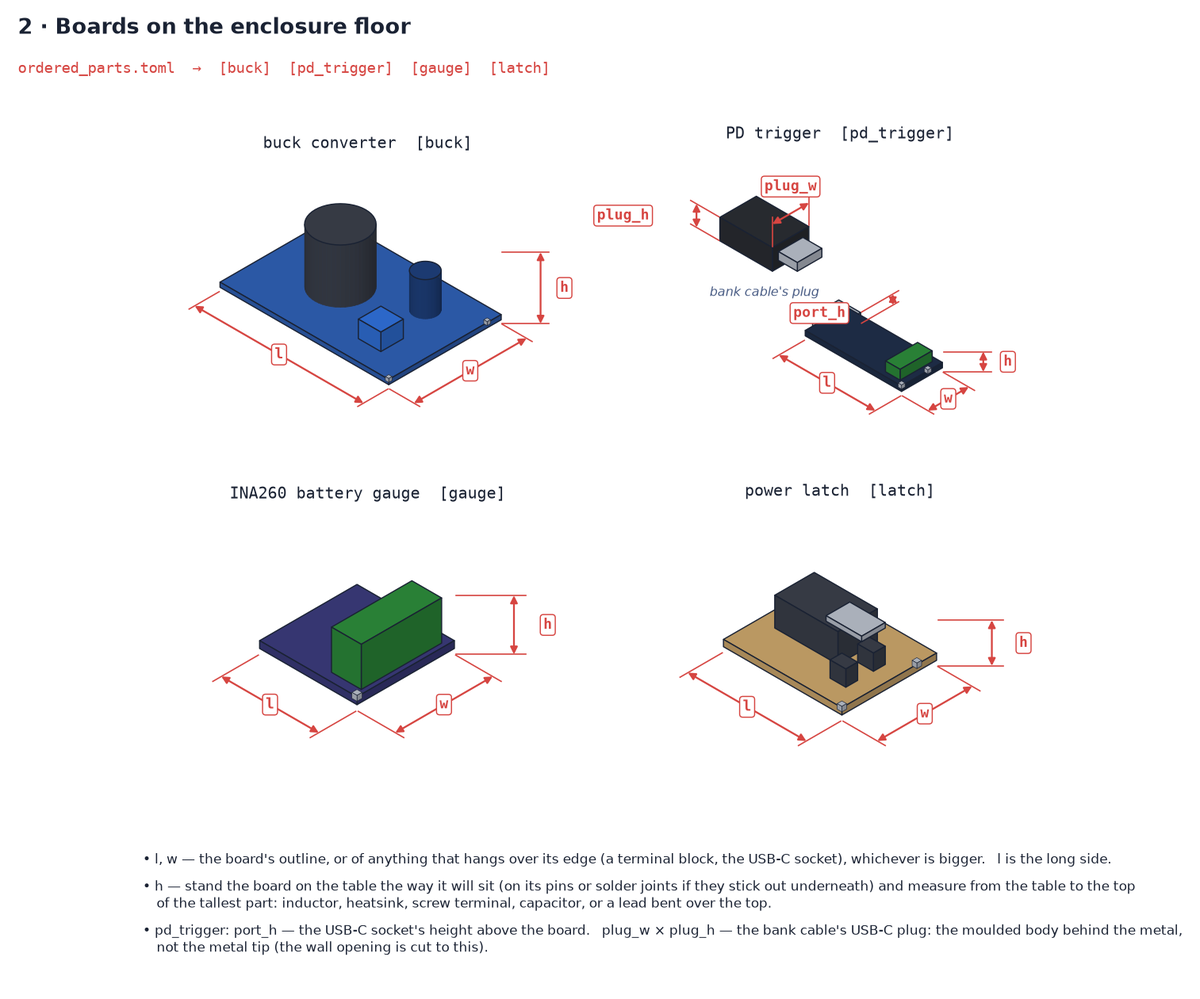
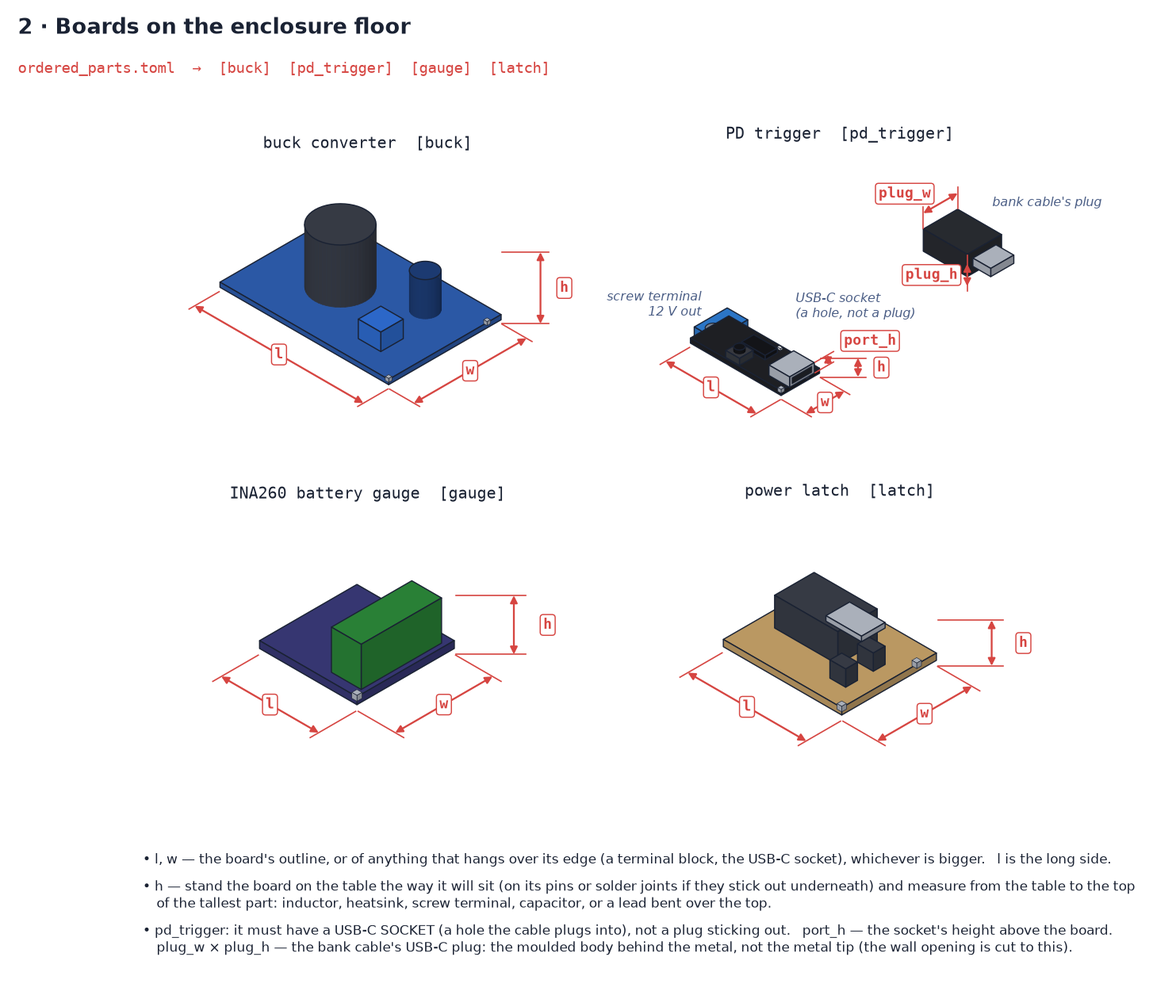
PD trigger: socket board, button setup and S1 lock; clearer measuring diagram
boards.png draws the trigger like the common black button board, with its
USB-C socket, screw terminal and the bank cable's plug. BOM item 10 asks
for a socket (female) board; the wiring, assembly, verification and
catalogue notes cover setting 12 V, the saved setting and the S1 lock.

diff --git a/sport_cam/docs/setup/assembly/catalog.js b/sport_cam/docs/setup/assembly/catalog.js
@@ -221,7 +221,7 @@
 
     // ---- bought parts
     { id: "pd", name: "USB-C PD trigger board", kind: "Electronics", match: ["USB-C\\s+PD\\s+trigger\\s+board"], img: model(["trigger"], board("USB-C PD trigger", C.blue)),
-      desc: "<p>A small board with a USB-C socket that talks USB Power Delivery to the power bank and asks it for a fixed voltage — <b>12 V</b> here — instead of the default 5 V. You select the voltage with a solder jumper or resistor printed on the board.</p><p>Check it with a meter on a real bank before wiring anything else.</p>" },
+      desc: "<p>A small board with a USB-C socket that talks USB Power Delivery to the power bank and asks it for a fixed voltage — <b>12 V</b> here — instead of the default 5 V. The usual kind has a button that steps 5 → 9 → 12 → 15 → 20 V, with an LED for each; it saves the setting, so it comes back at 12 V after every power cycle and bank swap. Short its <b>S1</b> pad with solder to lock the button once it is at 12 V; leave the F1/F2 test pads open. Others are fixed at 12 V, or set with a solder jumper.</p><p>It must have a USB-C <b>socket</b>, not a plug: the bank's cable plugs into it through the wall. Check it with a meter on a real bank before wiring anything else.</p>" },
     { id: "rocker", name: "Rocker switch", kind: "Electronics", match: ["Rocker\\s+switch"], img: model(["switch"], board("rocker switch", C.black, 80, 100)),
       desc: "<p>The camera's on/off switch. Panel-mount: it clips into a rectangular hole in the enclosure wall. It doesn't carry the power. It tells the power latch to turn on, and the Pi when to shut down, so switching off saves any recording before the power goes.</p>" },
     { id: "latch", name: "Power latch", kind: "Electronics", match: ["Power\\s+latch"], img: model(["latch"], board("power latch")),

diff --git a/sport_cam/docs/with_uwb/setup/assembly/index.html b/sport_cam/docs/with_uwb/setup/assembly/index.html
@@ -170,7 +170,7 @@ const STEPS = [
     steps: [
       "<b>Wiring:</b> connections P1–P6, S1–S2 and R1 in the <a href='../12-wiring.md' target='_blank'>wiring guide</a>, steps 1–3. Build the power latch on its scrap of perfboard first, from the <a href='../12-wiring.md#power-latch' target='_blank'>latch circuit</a>.",
       "<b>Bench-set the buck to 5.1 V under a 4 A dummy load before it goes anywhere near the Pi.</b> Open-circuit voltage tells you nothing; a unit that reads 5.1 V unloaded and 4.8 V loaded will brown the Pi out under load.",
-      "Set the PD trigger to <b>12 V</b> (solder jumper or resistor, per its silkscreen) and confirm with a meter on a real bank before wiring anything else.",
+      "Set the PD trigger to <b>12 V</b> on a real bank: press its button until the 12 V LED lights (5 → 9 → 12 → 15 → 20 V, one step per press; it remembers the setting through power cycles and bank swaps), then short its <b>S1</b> key-lock pad with solder so a stray press can't take it to 15 or 20 V. Leave the F1/F2 pads open. Confirm 12 V with a meter at its screw terminal, unplug and replug the bank, and confirm it again, before wiring anything else.",
       `<b>PD trigger:</b> foam-tape it to the floor at the ${where(LY.usbc.ang)} of the enclosure, its USB-C socket hard against the inside of the rectangular inlet low in the wall. The bank's cable plugs in from outside.`,
       "<b>Switch and jack:</b> the rocker snaps into its cut-out — the wall is thinned round it so the clips grip — and the barrel jack (the 5 V service tap) goes through the round hole and takes its nut inside.",
       "<b>Latch, gauge and buck:</b> foam-tape them to the floor where the model shows them, clear of the posts and the tripod boss. Everything on the floor stays below the LED window.",

diff --git a/sport_cam/docs/without_uwb/setup/assembly/index.html b/sport_cam/docs/without_uwb/setup/assembly/index.html
@@ -158,7 +158,7 @@ const STEPS = [
     steps: [
       "<b>Wiring:</b> connections P1–P6, S1–S2 and R1 in the <a href='../12-wiring.md' target='_blank'>wiring guide</a>, steps 1–3. Build the power latch on its scrap of perfboard first, from the <a href='../12-wiring.md#power-latch' target='_blank'>latch circuit</a>.",
       "<b>Bench-set the buck to 5.1 V under a 4 A dummy load before it goes anywhere near the Pi.</b> Open-circuit voltage tells you nothing; a unit that reads 5.1 V unloaded and 4.8 V loaded will brown the Pi out under load.",
-      "Set the PD trigger to <b>12 V</b> (solder jumper or resistor, per its silkscreen) and confirm with a meter on a real bank before wiring anything else.",
+      "Set the PD trigger to <b>12 V</b> on a real bank: press its button until the 12 V LED lights (5 → 9 → 12 → 15 → 20 V, one step per press; it remembers the setting through power cycles and bank swaps), then short its <b>S1</b> key-lock pad with solder so a stray press can't take it to 15 or 20 V. Leave the F1/F2 pads open. Confirm 12 V with a meter at its screw terminal, unplug and replug the bank, and confirm it again, before wiring anything else.",
       `<b>PD trigger:</b> foam-tape it to the floor at the ${where(LY.usbc.ang)} of the enclosure, its USB-C socket hard against the inside of the rectangular inlet low in the wall. The bank's cable plugs in from outside.`,
       "<b>Switch and jack:</b> the rocker snaps into its cut-out — the wall is thinned round it so the clips grip — and the barrel jack (the 5 V service tap) goes through the round hole and takes its nut inside.",
       "<b>Latch, gauge and buck:</b> foam-tape them to the floor where the model shows them, clear of the posts and the tripod boss. Everything on the floor stays below the LED window.",

diff --git a/sport_cam/cad/render_measure_diagrams.py b/sport_cam/cad/render_measure_diagrams.py
@@ -435,8 +435,9 @@ def boards():
          "h — stand the board on the table the way it will sit (on its pins or solder joints if they stick out "
          "underneath) and measure from the table to the top of the tallest part: inductor, heatsink, screw terminal, "
          "capacitor, or a lead bent over the top.",
-         "pd_trigger: port_h — the USB-C socket's height above the board.   plug_w × plug_h — the bank cable's "
-         "USB-C plug: the moulded body behind the metal, not the metal tip (the wall opening is cut to this)."],
+         "pd_trigger: it must have a USB-C SOCKET (a hole the cable plugs into), not a plug sticking out.   "
+         "port_h — the socket's height above the board.   plug_w × plug_h — the bank cable's USB-C plug: the "
+         "moulded body behind the metal, not the metal tip (the wall opening is cut to this)."],
         panels=4, size=(10.0, 7.6), rows=2)
     for ax, t in zip(axes, ("buck converter  [buck]", "PD trigger  [pd_trigger]",
                             "INA260 battery gauge  [gauge]", "power latch  [latch]")):
@@ -453,26 +454,38 @@ def boards():
     S.draw()
     S.fit(pad=16)
 
-    # PD trigger
+    # PD trigger — laid out like the common black ones: USB-C socket at one end,
+    # a blue screw terminal (12 V out) at the other, chip, button and LEDs between
     t = P["pd_trigger"]
+    l, w, top = t["l"], t["w"], 2.8
     S = Scene(axes[1])
-    board_box(S, t["l"], t["w"], color="#1f2f4a")
-    S.box(0, t["w"] / 2 - 4.5, 2.8, 7.5, 9, t["port_h"], METAL, bias=3)             # socket at one end
-    S.box(t["l"] - 7, 1.5, 2.8, 5, t["w"] - 3, t["h"] - 2.8, "#2c8a3a", bias=3)     # output terminal
-    lwh(S, t["l"], t["w"], t["h"])
-    S.dim((7.5, t["w"] / 2 - 4.5, 2.8), (7.5, t["w"] / 2 - 4.5, 2.8 + t["port_h"]), (0, -t["w"] / 2 - 4, 0),
-          "port_h", text_off=(-14, -4), ha="right")
-    # plug, floating off the socket end
-    px = -30
+    board_box(S, l, w, color="#202226")
+    sw, sl = 9.0, 7.5                                                               # USB-C socket
+    S.box(l - sl + 0.6, w / 2 - sw / 2, top, sl, sw, t["port_h"], METAL, bias=3)
+    S.poly([(l + 0.61, w / 2 - sw / 2 + 0.9, top + 0.7), (l + 0.61, w / 2 + sw / 2 - 0.9, top + 0.7),
+            (l + 0.61, w / 2 + sw / 2 - 0.9, top + t["port_h"] - 0.7), (l + 0.61, w / 2 - sw / 2 + 0.9, top + t["port_h"] - 0.7)],
+           "#1b1d22", bias=4, lw=0.4)                                               # its mouth
+    S.box(0.4, 1.0, top, 7.5, w - 2.0, t["h"] - top, "#2f7fd6", bias=3)            # screw terminal
+    for y in (w * 0.3, w * 0.7):
+        S.disc((4.15, y, t["h"]), 2.1, "#7a828f", bias=4)
+    S.box(l * 0.36, w * 0.2, top, l * 0.26, w * 0.32, 1.4, "#15161a", bias=2)      # chip
+    S.box(l * 0.38, w * 0.62, top, 5, 5, 2.2, "#3a3d44", bias=2)                    # button
+    S.cyl((l * 0.38 + 2.5, w * 0.62 + 2.5, top + 2.2), 1.5, 1.2, "#15161a", bias=3)
+    for k in range(5):                                                              # voltage LEDs
+        S.box(l * 0.30 + k * l * 0.07, 0.8, top, 1.2, 0.8, 0.6, "#f2f2f2", lw=0.3, bias=2)
+    lwh(S, l, w, t["h"])
+    S.dim((l + 0.6, w / 2 - sw / 2, top), (l + 0.6, w / 2 - sw / 2, top + t["port_h"]), (0, -5, 0),
+          "port_h", text_off=(5, 6), ha="left")
+    S.text((l + 0.6, w / 2, top + t["port_h"]), "USB-C socket\n(a hole, not a plug)", off=(-2, 20), ha="left")
+    S.text((0.4, w / 2, t["h"]), "screw terminal\n12 V out", off=(-3, 4), ha="right")
+    # the bank cable's plug, off to one side, pointing at the socket's end
     pw, ph = t["plug_w"], t["plug_h"]
-    pz = 14
-    S.box(px, t["w"] / 2 - pw / 2, pz, 18, pw, ph, "#2a2d33", bias=0)
-    S.box(px + 18, t["w"] / 2 - 4.2, pz + ph / 2 - 1.3, 6.5, 8.4, 2.6, METAL, bias=1)
-    S.dim((px + 18, t["w"] / 2 + pw / 2, pz + ph), (px + 18, t["w"] / 2 - pw / 2, pz + ph), (0, 0, 7), "plug_w",
-          text_off=(0, 8), ext=True)
-    S.dim((px, t["w"] / 2 + pw / 2, pz), (px, t["w"] / 2 + pw / 2, pz + ph), (-8, 0, 0), "plug_h",
-          text_off=(-14, 0), ha="right")
-    S.text((px + 9, t["w"] / 2, pz), "bank cable's plug", off=(0, -14))
+    px, py, pz = l + 4, -40, top + 22
+    S.box(px + 16, py - 4.2, pz + ph / 2 - 1.3, 6.5, 8.4, 2.6, METAL, bias=1)              # metal tip
+    S.box(px, py - pw / 2, pz, 16, pw, ph, "#2a2d33", bias=2)                              # moulded body
+    S.dim((px, py + pw / 2, pz + ph), (px, py - pw / 2, pz + ph), (0, 0, 5), "plug_w", text_off=(-3, 3), ha="right")
+    S.dim((px + 16, py + pw / 2, pz), (px + 16, py + pw / 2, pz + ph), (3, 3, 0), "plug_h", text_off=(-3, 0), ha="right")
+    S.text((px + 8, py - pw / 2, pz + ph), "bank cable's plug", off=(4, 6), ha="left")
     S.draw()
     S.fit(pad=16)
 

diff --git a/sport_cam/docs/with_uwb/setup/10-bill-of-materials.md b/sport_cam/docs/with_uwb/setup/10-bill-of-materials.md
@@ -53,7 +53,7 @@ ordered. Printed-parts table: tick **Acquired** ☐ when printed.
 | #   | Status | Part                                                   | Qty | ≈ CAD | Source                                                                                                                                                           | Notes                                                                                                                                                                                                                                                                                                                                                                                        |
 | --- | ------ | ------------------------------------------------------ | --- | ----- | ---------------------------------------------------------------------------------------------------------------------------------------------------------------- | -------------------------------------------------------------------------------------------------------------------------------------------------------------------------------------------------------------------------------------------------------------------------------------------------------------------------------------------------------------------------------------------- |
 | 9   | A      | **USB-C PD power bank, 25 000 mAh (92 Wh), 65 W+**     | 1   | $80   | [Amazon.ca](https://www.amazon.ca/s?k=25000mah+power+bank+65w+usb+c+pd)                                                                                          | gives **6.2 h** tracking + recording on a Pi 4, after the bank's own conversion loss ([04](../../design/04-electronics.md#runtime)). A 20 000 mAh (74 Wh) bank makes 5.0 h, saves ≈ C$25 and 200 g, and is the better pick unless you want a full day between charges. Whichever you buy, set `BATTERY_WH` to match. Stay under 100 Wh to keep it flyable                                                 |
-| 10  | O      | USB-C PD trigger board, 12 V                           | 1   | $10   | [Amazon.ca](https://www.amazon.ca/s?k=usb+c+pd+trigger+board+12v)                                                                                                | negotiates 12 V out of the bank. Fixed-12 V or adjustable both fine; most banks cap their 5 V profile at 3 A, and the 5 V rail here also feeds the servos, the three anchors and the ring                                                                                                                                                                                                         |
+| 10  | O      | USB-C PD trigger board, 12 V                           | 1   | $10   | [Amazon.ca](https://www.amazon.ca/s?k=usb+c+pd+trigger+board+12v+female)                                                                                                | negotiates 12 V out of the bank. It must have a USB-C **socket** (female) for the bank cable to plug into — not a USB-C plug sticking out of its end. The common button type (5/9/12/15/20 V, "Type-C Female to 2pin Terminal") is a good choice: it saves its setting through power cycles, so it comes back at 12 V after every bank swap, and its S1 pad locks the button ([wiring, step 2](12-wiring.md)). Fixed-12 V boards are fine too. 3 A cables are enough: the camera draws ≈ 36 W at most; most banks cap their 5 V profile at 3 A, and the 5 V rail here also feeds the servos, the three anchors and the ring                                                                                                                                                                                                         |
 | 11  | O      | 12 V → 5 V 8 A buck (≥ 40 W), **adjustable**           | 1   | $16   | [Amazon.ca](https://www.amazon.ca/s?k=12v+to+5v+8a+adjustable+buck+converter)                                                                                    | the single 5 V rail. Buy an adjustable unit, not a fixed-5 V one: it must be **trimmed to 5.1 V under a 4 A load before the Pi is ever connected**. Open-circuit voltage tells you nothing — a module that reads 5.1 V unloaded and sags to 4.8 V will brown out a Pi. This is the first bench job in the build                                                                              |
 | 12  | A      | **Current/voltage sensor — INA260 breakout preferred** | 1   | $22   | [Digi-Key.ca](https://www.digikey.ca/en/products/result?keywords=adafruit%204226%20ina260) · [Amazon.ca](https://www.amazon.ca/s?k=ina226+current+sensor+module) | the battery gauge, on the 12 V side, I2C 0x40. The **INA260** (Adafruit 4226) has the shunt on the die: nothing to calibrate, no `INA226_SHUNT_OHMS` to get wrong, 36 V and 15 A headroom. A bare **INA226** module works too if you can find one — set `POWER_MONITOR = "ina226"` and the shunt value. **Hard to source in Canada — see [below](#parts-that-are-hard-to-source-in-canada)** |
 | 13  | O      | Panel-mount rocker switch, 10 A                        | 1   | $8    | [Amazon.ca](https://www.amazon.ca/s?k=panel+mount+rocker+switch+12v) | the on/off switch, in the enclosure wall. It signals the power latch (13a) rather than carrying the power, so switching off is a clean shutdown: the recording is saved and the head parked before the power goes. Any SPST rocker that snaps into a 19 × 13 mm cut-out; a lit one is fine |

diff --git a/sport_cam/docs/without_uwb/setup/10-bill-of-materials.md b/sport_cam/docs/without_uwb/setup/10-bill-of-materials.md
@@ -53,7 +53,7 @@ ordered. Printed-parts table: tick **Acquired** ☐ when printed.
 | #   | Status | Part                                                   | Qty | ≈ CAD | Source                                                                                                                                                           | Notes                                                                                                                                                                                                                                                                                                                                                                                        |
 | --- | ------ | ------------------------------------------------------ | --- | ----- | ---------------------------------------------------------------------------------------------------------------------------------------------------------------- | -------------------------------------------------------------------------------------------------------------------------------------------------------------------------------------------------------------------------------------------------------------------------------------------------------------------------------------------------------------------------------------------- |
 | 9   | A      | **USB-C PD power bank, 25 000 mAh (92 Wh), 65 W+**     | 1   | $80   | [Amazon.ca](https://www.amazon.ca/s?k=25000mah+power+bank+65w+usb+c+pd)                                                                                          | gives **6.2 h** tracking + recording on a Pi 4, after the bank's own conversion loss ([04](../../design/04-electronics.md#runtime)). A 20 000 mAh (74 Wh) bank makes 5.0 h, saves ≈ C$25 and 200 g, and is the better pick unless you want a full day between charges. Whichever you buy, set `BATTERY_WH` to match. Stay under 100 Wh to keep it flyable                                                 |
-| 10  | A      | USB-C PD trigger board, 12 V                           | 1   | $10   | [Amazon.ca](https://www.amazon.ca/s?k=usb+c+pd+trigger+board+12v)                                                                                                | negotiates 12 V out of the bank. Fixed-12 V or adjustable both fine; most banks cap their 5 V profile at 3 A, and the 5 V rail here also feeds the servos and the ring                                                                                                                                                                                                         |
+| 10  | A      | USB-C PD trigger board, 12 V                           | 1   | $10   | [Amazon.ca](https://www.amazon.ca/s?k=usb+c+pd+trigger+board+12v+female)                                                                                                | negotiates 12 V out of the bank. It must have a USB-C **socket** (female) for the bank cable to plug into — not a USB-C plug sticking out of its end. The common button type (5/9/12/15/20 V, "Type-C Female to 2pin Terminal") is a good choice: it saves its setting through power cycles, so it comes back at 12 V after every bank swap, and its S1 pad locks the button ([wiring, step 2](12-wiring.md)). Fixed-12 V boards are fine too. 3 A cables are enough: the camera draws ≈ 36 W at most; most banks cap their 5 V profile at 3 A, and the 5 V rail here also feeds the servos and the ring                                                                                                                                                                                                         |
 | 11  | A      | 12 V → 5 V 8 A buck (≥ 40 W), **adjustable**           | 1   | $16   | [Amazon.ca](https://www.amazon.ca/s?k=12v+to+5v+8a+adjustable+buck+converter)                                                                                    | the single 5 V rail. Buy an adjustable unit, not a fixed-5 V one: it must be **trimmed to 5.1 V under a 4 A load before the Pi is ever connected**. Open-circuit voltage tells you nothing — a module that reads 5.1 V unloaded and sags to 4.8 V will brown out a Pi. This is the first bench job in the build                                                                              |
 | 12  | A      | **Current/voltage sensor — INA260 breakout preferred** | 1   | $22   | [Digi-Key.ca](https://www.digikey.ca/en/products/result?keywords=adafruit%204226%20ina260) · [Amazon.ca](https://www.amazon.ca/s?k=ina226+current+sensor+module) | the battery gauge, on the 12 V side, I2C 0x40. The **INA260** (Adafruit 4226) has the shunt on the die: nothing to calibrate, no `INA226_SHUNT_OHMS` to get wrong, 36 V and 15 A headroom. A bare **INA226** module works too if you can find one — set `POWER_MONITOR = "ina226"` and the shunt value. **Hard to source in Canada — see [below](#parts-that-are-hard-to-source-in-canada)** |
 | 13  | A      | Panel-mount rocker switch, 10 A                        | 1   | $8    | [Amazon.ca](https://www.amazon.ca/s?k=panel+mount+rocker+switch+12v) | the on/off switch, in the enclosure wall. It signals the power latch (13a) rather than carrying the power, so switching off is a clean shutdown: the recording is saved and the head parked before the power goes. Any SPST rocker that snaps into a 19 × 13 mm cut-out; a lit one is fine |

diff --git a/sport_cam/docs/with_uwb/setup/15-verification.md b/sport_cam/docs/with_uwb/setup/15-verification.md
@@ -64,7 +64,7 @@ Do these in order. Each one assumes the one above passed.
 | # | Check | How | If it fails |
 | --- | --- | --- | --- |
 | 1 | **Buck trimmed to 5.1 V under load** | 4 A dummy load on the output, meter at the Pi end | adjust the trimmer. Open-circuit voltage tells you nothing; a module reading 5.1 V unloaded can sag to 4.8 V and brown the Pi out. **Do this before the Pi is ever connected** |
-| 2 | **PD trigger actually at 12 V** | meter on a real bank, with the item 14 cable | the trigger stays at 5 V if the cable is USB-A to C (no PD), or if the bank's PD output has no 12 V profile. Any C-to-C cable is fine |
+| 2 | **PD trigger actually at 12 V** | meter on a real bank, with the item 14 cable; unplug and replug the bank and measure again | the trigger stays at 5 V if the cable is USB-A to C (no PD), or if the bank's PD output has no 12 V profile. Any C-to-C cable is fine. It must come back at 12 V after the replug: the button type saves its setting, and every bank swap is a power cycle. With S1 shorted, a press of the button changes nothing |
 | 2a | **Switch and latch, before the Pi** | rocker off: 0 V at the buck input. On: 12 V. SENSE: 2.7–3.0 V with the rocker on, 0 V off ([wiring, step 3](12-wiring.md#wiring-order-with-checks)) | 12 V with the rocker off: Q1 in backwards (S and D swapped), or R1 missing. 0 V with it on: Q3 or R2/R3, or S1/S2. SENSE above 3.3 V: R7/R8 swapped. **Don't connect S4 to the Pi until it reads right** |
 | 3 | **I2C devices present** | `./scripts/pi/run sudo i2cdetect -y 1` shows `0c` and `40` | `0c` missing: PTZ controller unpowered or leads swapped. `40` missing: set `POWER_MONITOR = "none"` and carry on without a gauge |
 | 4 | **Camera detected** | `./scripts/pi/camera-check.sh` | add `dtoverlay=imx477` to `/boot/firmware/config.txt` |

diff --git a/sport_cam/docs/without_uwb/setup/15-verification.md b/sport_cam/docs/without_uwb/setup/15-verification.md
@@ -76,7 +76,7 @@ Do these in order. Each one assumes the one above passed.
 | # | Check | How | If it fails |
 | --- | --- | --- | --- |
 | 1 | **Buck trimmed to 5.1 V under load** | 4 A dummy load on the output, meter at the Pi end | adjust the trimmer. Open-circuit voltage tells you nothing; a module reading 5.1 V unloaded can sag to 4.8 V and brown the Pi out. **Do this before the Pi is ever connected** |
-| 2 | **PD trigger actually at 12 V** | meter on a real bank, with the item 14 cable | the trigger stays at 5 V if the cable is USB-A to C (no PD), or if the bank's PD output has no 12 V profile. Any C-to-C cable is fine |
+| 2 | **PD trigger actually at 12 V** | meter on a real bank, with the item 14 cable; unplug and replug the bank and measure again | the trigger stays at 5 V if the cable is USB-A to C (no PD), or if the bank's PD output has no 12 V profile. Any C-to-C cable is fine. It must come back at 12 V after the replug: the button type saves its setting, and every bank swap is a power cycle. With S1 shorted, a press of the button changes nothing |
 | 2a | **Switch and latch, before the Pi** | rocker off: 0 V at the buck input. On: 12 V. SENSE: 2.7–3.0 V with the rocker on, 0 V off ([wiring, step 3](12-wiring.md#wiring-order-with-checks)) | 12 V with the rocker off: Q1 in backwards (S and D swapped), or R1 missing. 0 V with it on: Q3 or R2/R3, or S1/S2. SENSE above 3.3 V: R7/R8 swapped. **Don't connect S4 to the Pi until it reads right** |
 | 3 | **I2C devices present** | `./scripts/pi/run sudo i2cdetect -y 1` shows `0c` and `40` | `0c` missing: PTZ controller unpowered or leads swapped. `40` missing: set `POWER_MONITOR = "none"` and carry on without a gauge |
 | 4 | **Camera detected** | `./scripts/pi/camera-check.sh` | add `dtoverlay=imx477` to `/boot/firmware/config.txt` |

diff --git a/sport_cam/docs/with_uwb/setup/12-wiring.md b/sport_cam/docs/with_uwb/setup/12-wiring.md
@@ -281,9 +281,16 @@ Each step points at the assembly-guide step it belongs to.
    the output and trim it to **5.1 V under load**. Open-circuit voltage tells
    you nothing: a unit that reads 5.1 V unloaded can sag to 4.8 V and brown
    the Pi out.
-2. **Set the trigger to 12 V** (solder jumper or resistor, per its
-   silkscreen). Check it with a meter on the real bank and the real cable
-   (P1).
+2. **Set the trigger to 12 V**, on the real bank with the real cable (P1).
+   On the button type (BOM 10), press the button until the **12 V** LED
+   lights: it steps 5 → 9 → 12 → 15 → 20 V, one step per press, and saves
+   the setting, so it comes back at 12 V after every power cycle and bank
+   swap. Then **short its S1 key-lock pad** with a blob of solder, so a
+   stray press can't take it to 15 or 20 V (to change it later, hold the
+   button while plugging the bank in). Leave the F1/F2 test pads open. A
+   jumper or resistor type is set per its silkscreen instead. **Check:**
+   12 V at its screw terminal, and still 12 V after unplugging and
+   replugging the bank.
 3. **Build the 12 V chain**: the [power latch](#power-latch) on its
    perfboard, then P2–P6, S1, S2, and the capacitor (R1). **Check:** rocker
    off, **0 V** at the buck input. Rocker on, **12 V** at the buck input and

diff --git a/sport_cam/docs/without_uwb/setup/12-wiring.md b/sport_cam/docs/without_uwb/setup/12-wiring.md
@@ -266,9 +266,16 @@ Each step points at the assembly-guide step it belongs to.
    the output and trim it to **5.1 V under load**. Open-circuit voltage tells
    you nothing: a unit that reads 5.1 V unloaded can sag to 4.8 V and brown
    the Pi out.
-2. **Set the trigger to 12 V** (solder jumper or resistor, per its
-   silkscreen). Check it with a meter on the real bank and the real cable
-   (P1).
+2. **Set the trigger to 12 V**, on the real bank with the real cable (P1).
+   On the button type (BOM 10), press the button until the **12 V** LED
+   lights: it steps 5 → 9 → 12 → 15 → 20 V, one step per press, and saves
+   the setting, so it comes back at 12 V after every power cycle and bank
+   swap. Then **short its S1 key-lock pad** with a blob of solder, so a
+   stray press can't take it to 15 or 20 V (to change it later, hold the
+   button while plugging the bank in). Leave the F1/F2 test pads open. A
+   jumper or resistor type is set per its silkscreen instead. **Check:**
+   12 V at its screw terminal, and still 12 V after unplugging and
+   replugging the bank.
 3. **Build the 12 V chain**: the [power latch](#power-latch) on its
    perfboard, then P2–P6, S1, S2, and the capacitor (R1). **Check:** rocker
    off, **0 V** at the buck input. Rocker on, **12 V** at the buck input and
